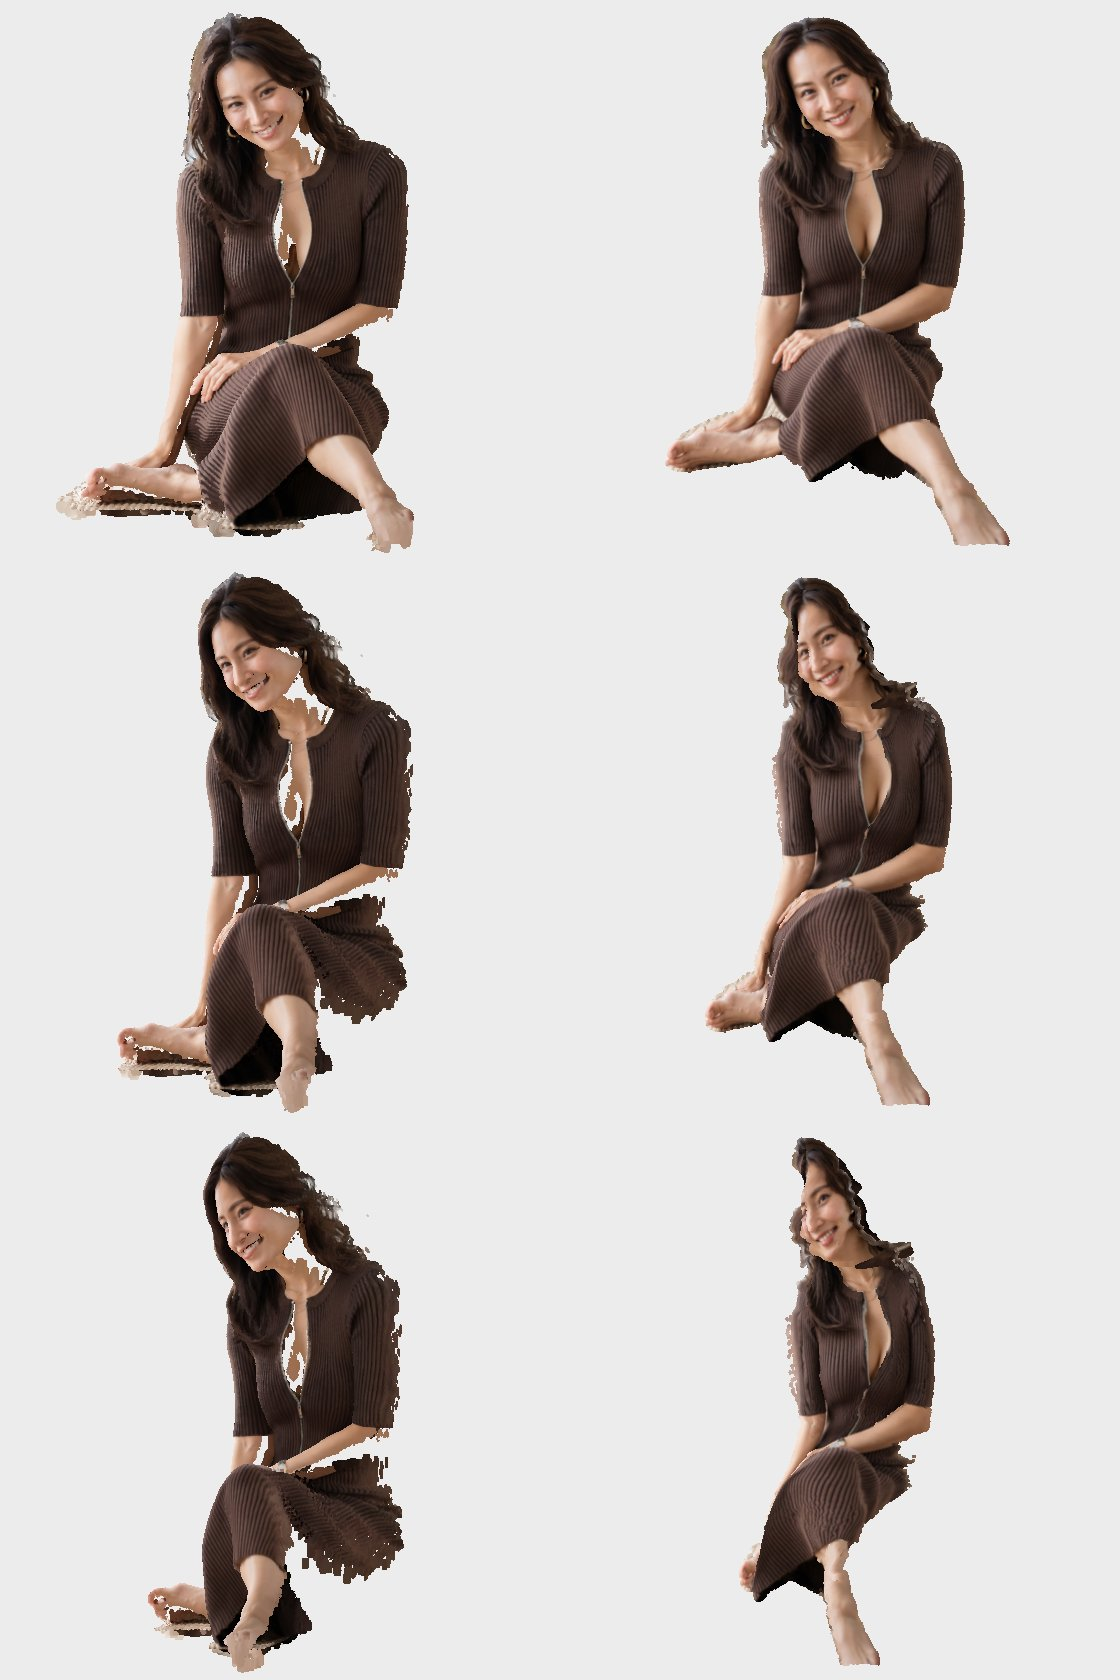
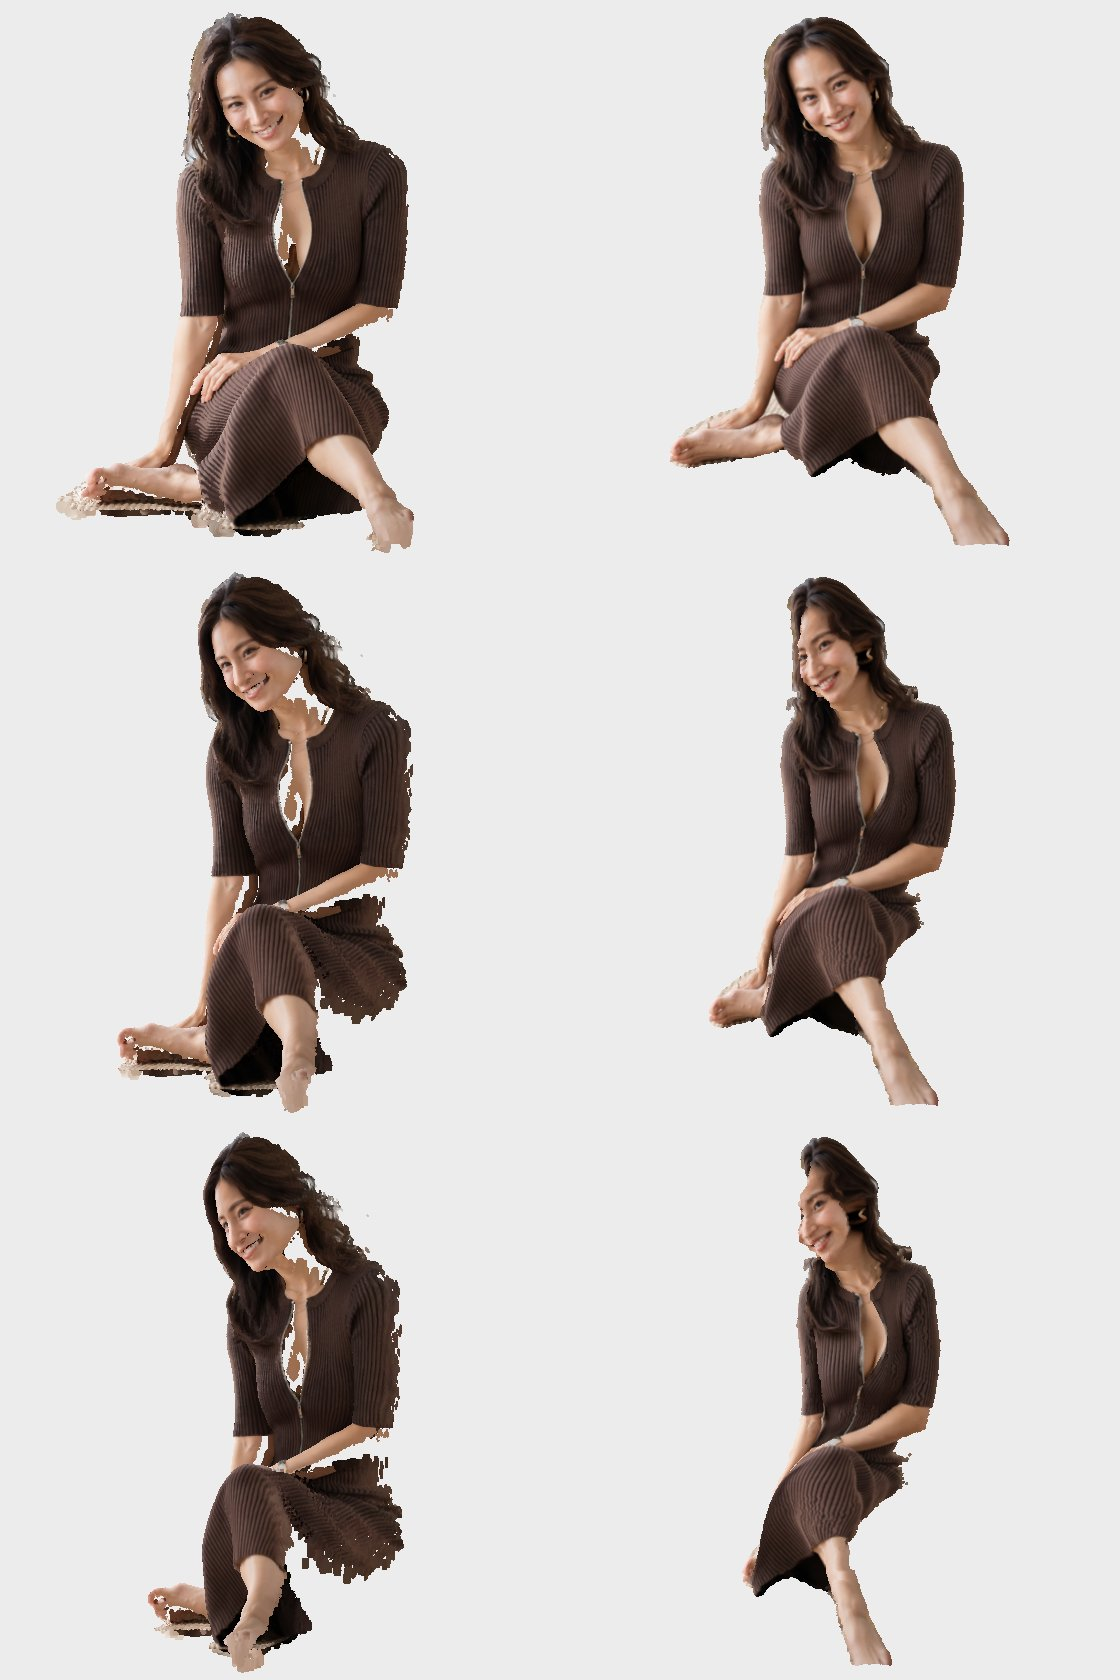
docs/13 に 45° の頭の修正（深度タイルを外す）と、3 枚の並置画像を追記
Claude-Session: https://claude.ai/code/session_01XfgHSLvGZ42BzQHgUqRxjm

diff --git a/docs/13-next-plan.md b/docs/13-next-plan.md
@@ -302,9 +302,33 @@ Metric3D v2 の小さい版）が候補に入る。**私たちが選べる話で
 左が SHARP、右が私たち。SHARP 側は背景の壁を「奥にあって壁と同じ色」で除いたので、
 **肌色が壁に近い所に穴が空く**（SHARP の欠陥ではなく、除き方の粗さ）。
 
-- `docs/images/compare-test26.jpg` — test26（左 SHARP、右 私たち。上から 0°・30°・45°）
-- `docs/images/compare-test31-38.jpg` — 左から test31 SHARP・私たち、test38 SHARP・私たち
+- `docs/images/compare-test26.jpg` `compare-test31.jpg` `compare-test38.jpg` — 各画像の左が SHARP、右が私たち。上から 0°・30°・45°（§13.6 の修正後）
 
 **読み取れること。** 3 枚とも体と服は 45° まで SHARP と同程度に回る。差は頭にある。
 SHARP は頭が丸く回る。私たちは 30° までは顔が自然で、**45° で顔の縁に軽いずれ**
 （test26・test38）が出る。test31 は顔が小さく目立たない。
+
+## 13.6 45° の頭を直した（深度タイルを外す）
+
+§13.5 の時点で、45° の頭に軽いずれが残っていた（特に首をかしげた test26）。
+切り分け（test26、45°）:
+
+| 切ったもの | 45° の頭 |
+|---|---|
+| 顔の起伏 | 髪の波が戻る（髪の均しが顔を条件にするため）。帯は残る |
+| **深度タイル** | **髪が頭に収まり、耳も出る。顔も小さくまとまる** |
+
+**頭の深度タイルが髪の深度を壊していた。** 顔は landmark 面が立てるので、タイルは要らない。
+顔の起伏を先に回し、**顔が立ったときはタイルを掛けない**（顔が見つからない写真だけ従来どおり）。
+タイルのぶん（約 8 秒）も短くなる。
+
+| 横断面の形 | 飛び出し 99% | 飛び出し 90% | 凹み 90% | 凹み 最大 |
+|---|---|---|---|---|
+| 参照実装（目安） | 0.051 | 0.028 | 0.131 | 0.431 |
+| test26 | **0.025** | 0.013 | 0.075 | 0.115 |
+| test31 | **0.040** | 0.017 | 0.101 | 0.203 |
+| test38 | **0.030** | 0.016 | 0.091 | 0.129 |
+
+並置（§13.5 の画像を差し替え）では、3 枚とも 45° まで体と頭が SHARP と同程度に収まる。
+**残る差:** SHARP は学習した回帰網で頭を立体として出すので、真横に近い角度（60° 超）では
+私たちは 1 枚の深度の限界が出る。アプリの視点の上限は 60° である。
